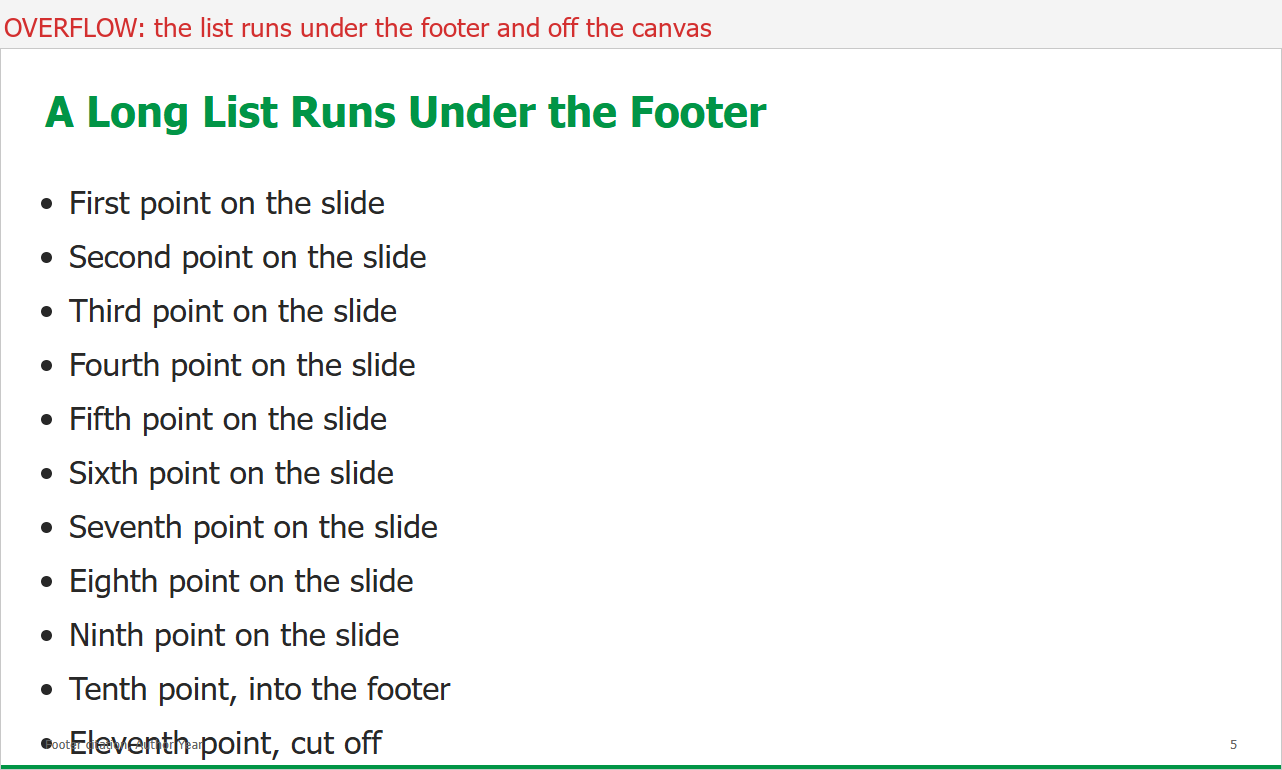
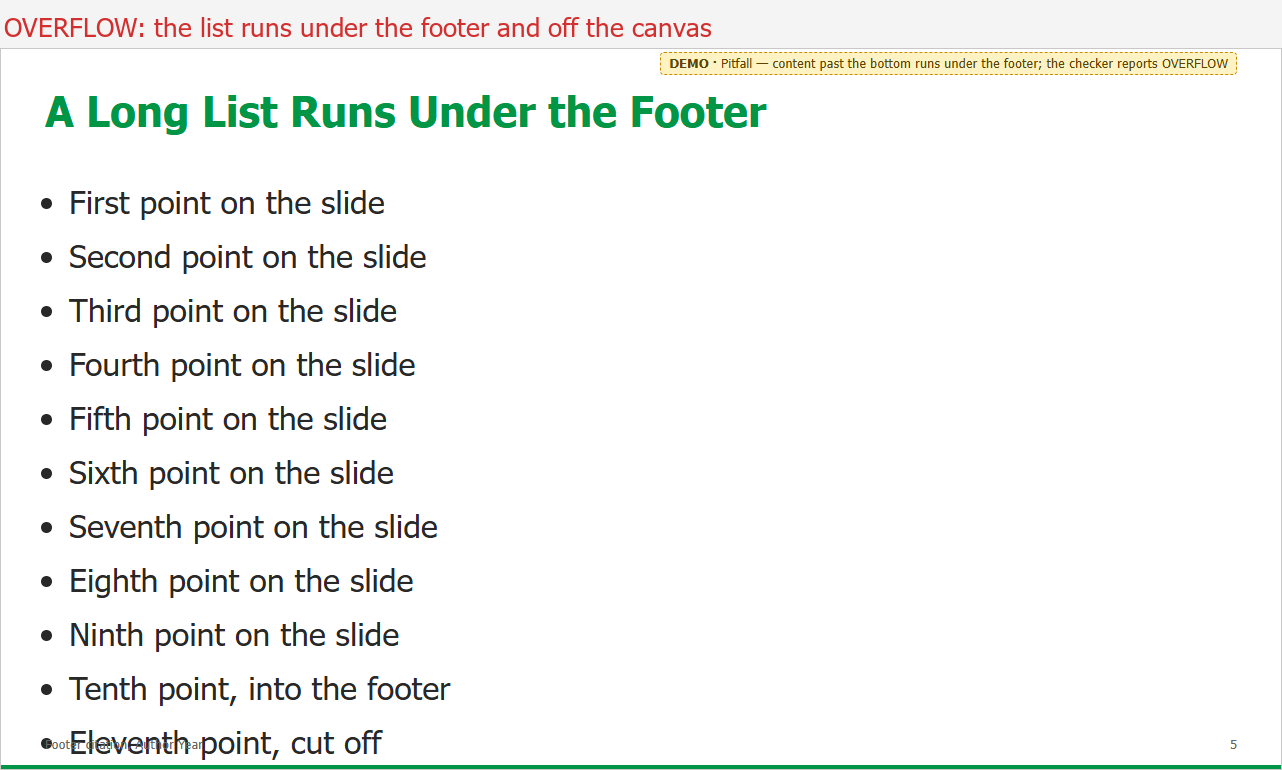
Examples: DEMO notes on every slide, captioned gallery
- new .demo class: a dashed note in the top-right margin naming what the
  slide demonstrates; absolutely positioned, layout and overflow
  measurements unchanged
- every starter and pitfalls slide carries one; render-test asserts it
- README gallery captions each slide with its feature, drawn after scaling
  so they stay readable
- check-slide-overflow.py names a slide by its title, skipping a .demo note

Changed region(s): [[0.4992, 0.0623, 0.9672, 0.1247]]

diff --git a/themes/innopolis.css b/themes/innopolis.css
@@ -496,6 +496,29 @@ section.table-xlarge table { font-size: 29px !important; }
   font-style: italic;
 }
 
+/* Tutorial annotation — a "DEMO" note in the top-right margin naming what the
+ * slide demonstrates. For example and training decks only; delete it from a
+ * real deck. Absolutely positioned inside the 30px top padding, so it cannot
+ * move the layout, and too narrow for the overflow checker to treat it as a
+ * callout that hides text. */
+section .demo {
+  position: absolute;
+  top: 3px;
+  right: 44px;
+  max-width: 70%;
+  background: #fff3c4;
+  border: 1px dashed var(--inno-b3);
+  border-radius: 4px;
+  color: #5b4500;
+  font-size: 13px;
+  line-height: 1.3;
+  font-style: normal;
+  padding: 2px 8px;
+  z-index: 5;
+}
+section .demo::before { content: 'DEMO · '; font-weight: bold; }
+section .demo code { background: transparent; padding: 0; font-size: 13px; }
+
 /* Comic illustration placeholder — 8:3 for 3-panel strips */
 .comic-placeholder {
   width: 840px;

diff --git a/themes/innopolis.template.css b/themes/innopolis.template.css
@@ -496,6 +496,29 @@ section.table-xlarge table { font-size: 29px !important; }
   font-style: italic;
 }
 
+/* Tutorial annotation — a "DEMO" note in the top-right margin naming what the
+ * slide demonstrates. For example and training decks only; delete it from a
+ * real deck. Absolutely positioned inside the 30px top padding, so it cannot
+ * move the layout, and too narrow for the overflow checker to treat it as a
+ * callout that hides text. */
+section .demo {
+  position: absolute;
+  top: 3px;
+  right: 44px;
+  max-width: 70%;
+  background: #fff3c4;
+  border: 1px dashed var(--inno-b3);
+  border-radius: 4px;
+  color: #5b4500;
+  font-size: 13px;
+  line-height: 1.3;
+  font-style: normal;
+  padding: 2px 8px;
+  z-index: 5;
+}
+section .demo::before { content: 'DEMO · '; font-weight: bold; }
+section .demo code { background: transparent; padding: 0; font-size: 13px; }
+
 /* Comic illustration placeholder — 8:3 for 3-panel strips */
 .comic-placeholder {
   width: 840px;

diff --git a/scripts/build-doc-images.py b/scripts/build-doc-images.py
@@ -74,11 +74,24 @@ def frame(img: Image.Image) -> Image.Image:
     return out
 
 
-def grid(images: list[Image.Image], cols: int, width: int) -> Image.Image:
-    """Tile images into a sheet `width` px wide, keeping each one's ratio."""
+def grid(images: list[Image.Image], cols: int, width: int,
+         captions: list[str] | None = None) -> Image.Image:
+    """Tile images into a sheet `width` px wide, keeping each one's ratio.
+
+    Captions are drawn AFTER scaling, under each cell, so they stay readable
+    however small the cells get — unlike text inside the slide itself."""
     cell_w = (width - GAP * (cols + 1)) // cols
     cells = [im.resize((cell_w, round(im.height * cell_w / im.width)), Image.LANCZOS)
              for im in images]
+    if captions:
+        f, bar = font(17), 30
+        out = []
+        for c, text in zip(cells, captions):
+            cap = Image.new("RGB", (c.width, c.height + bar), BG)
+            cap.paste(c, (0, 0))
+            ImageDraw.Draw(cap).text((4, c.height + 6), text, fill=INK, font=f)
+            out.append(cap)
+        cells = out
     rows = [cells[i:i + cols] for i in range(0, len(cells), cols)]
     heights = [max(c.height for c in r) for r in rows]
     sheet = Image.new("RGB", (width, sum(heights) + GAP * (len(rows) + 1)), BG)
@@ -227,8 +240,19 @@ def main() -> int:
         # README — the one hero figure
         # Nine slides in deck order, cover to closing, so the progress bar is seen
         # filling up across the gallery.
-        save(grid([frame(s) for s in slides(starter, [1, 2, 4, 5, 6, 7, 8, 10, 12])], 3, 1600),
-             "gallery-starter.png")
+        gallery = {
+            1: "title — cover layout",
+            2: "xl tier · slate bookend on the bar",
+            4: "Vega-Lite chart · large tier",
+            5: ".columns · .takeaway",
+            6: "lead divider — the bar adds orange",
+            7: "draw.io diagram from Mermaid",
+            8: "dense tier · table · footer citation",
+            10: ".stat-box in .columns",
+            12: "closing — the bar reads full",
+        }
+        save(grid([frame(s) for s in slides(starter, list(gallery))], 3, 1600,
+                  captions=list(gallery.values())), "gallery-starter.png")
 
         # css-reference / workflow — layouts and tiers
         lay = slides(test, [1, 2, 3, 4, 11])
@@ -255,7 +279,9 @@ def main() -> int:
                   1, 1470), "progress-bar-untagged-slide.png")
 
         # troubleshooting — pitfalls
-        save(frame(Image.open(pits[0]).convert("RGB")), "pitfall-markdown-in-div.png")
+        save(label(frame(Image.open(pits[0]).convert("RGB")),
+                   "markdown inside a <div> is printed literally", RED),
+             "pitfall-markdown-in-div.png")
         save(grid([label(frame(s), t) for s, t in
                    zip(slides(pits, [2, 3]), ["no size: natural width", "w:900"])], 2, 1400),
              "pitfall-diagram-size.png")

diff --git a/scripts/check-slide-overflow.py b/scripts/check-slide-overflow.py
@@ -128,7 +128,11 @@ def main(path: str) -> int:
             if not paginated and len(lines) <= TITLE_MAX_LINES and not content_images:
                 continue
 
-            title = (page.extract_text() or "\n").split("\n")[0][:46]
+            # First line is the title — unless the slide carries a .demo note,
+            # which sits above the title in the top margin.
+            text_lines = [l for l in (page.extract_text() or "").split("\n")
+                          if l.strip() and not l.startswith("DEMO ·")]
+            title = (text_lines or [""])[0][:46]
             rows.append((bottom / h, i, title))
 
     rows.sort(reverse=True)

diff --git a/examples/starter/slides.md b/examples/starter/slides.md
@@ -15,7 +15,12 @@ style: |
   /* end progress-map */
 ---
 
+<!-- The yellow DEMO notes (<div class="demo">) say what each slide demonstrates.
+     Delete them when you copy this deck. -->
+
 <!-- _class: title -->
+
+<div class="demo"><code>_class: title</code> — cover layout, photo background, no page number or bar</div>
 
 # Small Pull Requests Merge Faster
 ## Engineering practices · Session 3
@@ -25,6 +30,8 @@ Speaker Name · Innopolis University
 ---
 
 <!-- class: xl b8 -->
+
+<div class="demo"><code>class: xl b8</code> — xl tier for the deck; slate bookend starts the bar</div>
 
 # Three Things to Take Away Today
 
@@ -39,6 +46,8 @@ Speaker Name · Innopolis University
 <!-- _class: lead b1 -->
 <!-- class: xl b1 -->
 
+<div class="demo"><code>lead b1</code> divider — section 1, bar turns red · <code>.comic-placeholder</code></div>
+
 # Why Size Matters
 ## What happens to a review as the diff grows
 
@@ -51,6 +60,8 @@ Speaker Name · Innopolis University
 
 <!-- _class: large b1 -->
 
+<div class="demo">Vega-Lite chart (<code>media/pr-size.vl.json</code>) · <code>large b1</code> tier · <code>.box.n</code> caveat</div>
+
 # Review Time Grows Faster Than the Diff
 
 ![Median hours to merge by diff size](media/pr-size.svg)
@@ -58,6 +69,8 @@ Speaker Name · Innopolis University
 <div class="box n">Illustrative numbers. Measure your own repository before quoting any.</div>
 
 ---
+
+<div class="demo"><code>.columns</code> with <code>h2</code> pills · <code>.takeaway</code> · xl tier carried from the divider</div>
 
 # Small and Large Reviews Fail Differently
 
@@ -89,12 +102,16 @@ Speaker Name · Innopolis University
 <!-- _class: lead b2 -->
 <!-- class: xl b2 -->
 
+<div class="demo"><code>lead b2</code> divider — section 2, bar adds orange and keeps the red</div>
+
 # Splitting a Change
 ## Cut along intent, so each piece can be judged on its own
 
 ---
 
 <!-- _class: large b2 -->
+
+<div class="demo">draw.io diagram from <code>media/review-flow.mmd</code> · <code>w:900</code> to enlarge a small SVG</div>
 
 # Each Review Round Is a Loop, Not a Gate
 
@@ -103,6 +120,8 @@ Speaker Name · Innopolis University
 ---
 
 <!-- _class: dense b2 -->
+
+<div class="demo"><code>dense b2</code> tier for a reference table · <code>.box.y</code> caution · footer citation</div>
 
 # Four Ways to Split, Ranked by How Often They Help
 
@@ -123,10 +142,14 @@ Speaker Name · Innopolis University
 <!-- _class: lead b3 -->
 <!-- class: xl b3 -->
 
+<div class="demo"><code>lead b3</code> divider — section 3, gold · <code>footer: ""</code> resets the citation</div>
+
 # Keeping Main Releasable
 ## Merge often without shipping half a feature
 
 ---
+
+<div class="demo">Two <code>.stat-box</code> in <code>.columns</code> · <code>.box.n</code> aside</div>
 
 # Merge Within a Day, or Split Again
 
@@ -155,6 +178,8 @@ Speaker Name · Innopolis University
 
 <!-- class: xl b8 -->
 
+<div class="demo"><code>class: xl b8</code> — back to slate for the wrap-up bookend</div>
+
 # Try It on Your Next Change
 
 - Open the refactor on its own first
@@ -164,6 +189,8 @@ Speaker Name · Innopolis University
 ---
 
 <!-- _class: closing -->
+
+<div class="demo"><code>_class: closing</code> — no page number; the bar reads full</div>
 
 # Questions?
 

diff --git a/examples/pitfalls/slides.md b/examples/pitfalls/slides.md
@@ -8,6 +8,8 @@ class: xl
 <!-- Deliberately broken deck. Every slide shows one common mistake.
      check-slide-overflow.py MUST exit 1 on it — see README.md. -->
 
+<div class="demo">Pitfall — markdown inside a <code>&lt;div&gt;</code> is not parsed; use <code>&lt;strong&gt;</code>, <code>&lt;em&gt;</code></div>
+
 # Markdown Inside a Box Is Not Parsed
 
 <div class="takeaway">This takeaway uses **markdown bold** and *italics* — they render literally.</div>
@@ -16,17 +18,23 @@ class: xl
 
 ---
 
+<div class="demo">Pitfall — no size given: the SVG shows at its natural, small width</div>
+
 # A Small Diagram Is Not Enlarged
 
 ![Review flow, no size given](../starter/media/review-flow.svg)
 
 ---
 
+<div class="demo">Fix — <code>w:900</code> in the alt text enlarges a wide diagram</div>
+
 # A Small Diagram Is Not Enlarged
 
 ![Review flow, sized with w:900 w:900](../starter/media/review-flow.svg)
 
 ---
+
+<div class="demo">Pitfall — columns too tall grow behind the opaque takeaway; the checker reports HIDDEN</div>
 
 # Too Much in the Columns Hides Behind the Box
 
@@ -62,6 +70,8 @@ class: xl
 <div class="takeaway">The last bullets of both columns are painted over by this box.</div>
 
 ---
+
+<div class="demo">Pitfall — content past the bottom runs under the footer; the checker reports OVERFLOW</div>
 
 # A Long List Runs Under the Footer
 

diff --git a/examples/render-test/README.md b/examples/render-test/README.md
@@ -27,7 +27,7 @@ Check these on the rendered PDF or PNGs:
 | Slide | Assertion |
 |-------|-----------|
 | 1 | Innopolis photo background fills the slide; title bottom-left; **no page number, no progress bar** |
-| 2 | H1 green at top; bar green over a grey track; table header green with white text; blockquote with a green left rule; footer bottom-left; **page number on the same baseline as the footer** |
+| 2 | Dashed yellow **DEMO** note in the top-right margin, clear of the title (the title sits exactly where it does on slides without one); H1 green at top; bar green over a grey track; table header green with white text; blockquote with a green left rule; footer bottom-left; **page number on the same baseline as the footer** |
 | 3 | `.lead` — content vertically centred, still left-aligned; bar turns **orange** (`b2`) and stays orange through slides 4–5 |
 | 4 | **Thin grey vertical rule** between the columns; both `h2` render as full-width green pills; takeaway spans full width below |
 | 5 | `.large` — visibly bigger body than slide 2, **title the same size** as slide 2; bar still orange |

diff --git a/CHANGELOG.md b/CHANGELOG.md
@@ -10,6 +10,13 @@
 - `examples/pitfalls/` — a deliberately broken deck illustrating common mistakes and
   serving as a regression test for the overflow checker.
 - `build-diagram.py --scale N` for crisp PNG exports.
+- `.demo` class — a DEMO note in the top-right margin saying what a slide
+  demonstrates; every slide of the starter and pitfalls decks carries one, and the
+  README gallery captions each slide with its feature.
+
+### Changed
+- `check-slide-overflow.py` names a slide by its title even when a `.demo` note sits
+  above it.
 - README disclaimer: not an official Innopolis University template, no guarantees.
 - README: nine-slide gallery from cover to closing; progress bar and density tiers as
   their own features; "What the skill does at each step" diagram

diff --git a/SKILL.md b/SKILL.md
@@ -115,6 +115,7 @@ Headings, lists, tables, blockquotes, code, links and images pick up the theme.
 | Content cards | `<div class="box">`, `.box.y` caution, `.box.r` alert, `.box.n` aside |
 | Inline label | `<span class="chip">NEW</span>` |
 | A diagram / chart not drawn yet | `<div class="placeholder">Diagram: …</div>` |
+| Say what a slide demonstrates (training decks) | `<div class="demo">…</div>` — top-right margin note; remove from real decks |
 | A diagram | draw.io pipeline → [references/diagrams.md](references/diagrams.md) |
 | A chart | Vega-Lite → [references/charts.md](references/charts.md) |
 | Any file in `media/` | [references/media-conventions.md](references/media-conventions.md) |

diff --git a/references/css-reference.md b/references/css-reference.md
@@ -110,6 +110,7 @@ Combine freely with any tier.
 | `.chip` | Inline yellow label |
 | `.placeholder` | Dashed green box for a visual not yet made |
 | `.comic-placeholder` / `.comic-caption` | Illustration slot on a divider — see [illustrations.md](illustrations.md) |
+| `.demo` | Tutorial annotation: a dashed **DEMO** note in the top-right margin saying what the slide demonstrates. Absolutely positioned, so it never moves the layout. For example and training decks — delete it from real ones |
 
 `.takeaway` and `.box` are **opaque and in the normal flow**. When the content above
 one is too tall, it grows *behind* the box and disappears — the text is still in the

diff --git a/docs/user/workflow.md b/docs/user/workflow.md
@@ -24,8 +24,9 @@ message to the agent:
 
 ## 2. Draft the slides
 
-Start from [examples/starter/slides.md](../../examples/starter/slides.md). Set the
-frontmatter:
+Start from [examples/starter/slides.md](../../examples/starter/slides.md). Each of its
+slides carries a yellow **DEMO** note naming the feature it shows — read them, then
+delete every `<div class="demo">…</div>` line. Set the frontmatter:
 
 ```yaml
 ---

diff --git a/examples/render-test/slides.md b/examples/render-test/slides.md
@@ -20,6 +20,8 @@ Theme maintainers
 
 ---
 
+<div class="demo"><code>.demo</code> annotation — top-right margin, never moves the layout</div>
+
 # Default Tier Exercises Every Base Element
 
 Body text at the default 22px. **Bold**, *italic*, `inline code`,
